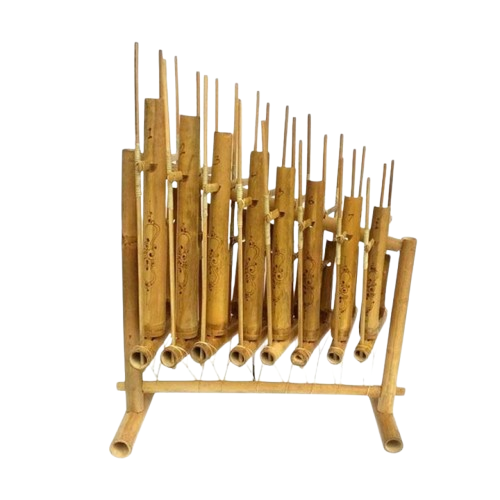
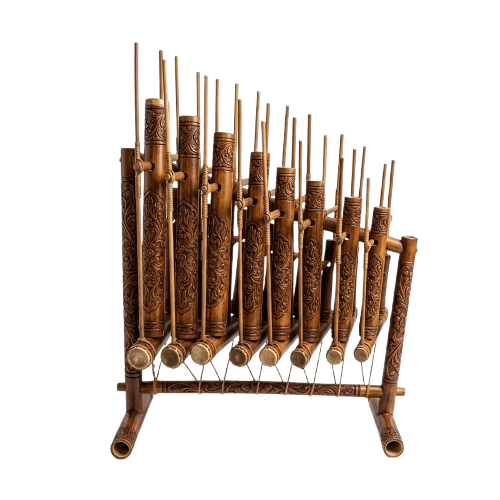
Add files via upload

Changed region(s): [[0.21, 0.09, 0.84, 0.93]]

diff --git a/web-alunan-nusantara/index.html b/web-alunan-nusantara/index.html
@@ -7,7 +7,7 @@
     const SUPABASE_URL = "https://paowtmytttinwndebftm.supabase.co";
     const SUPABASE_KEY = "sb_publishable_2-SfXv7pLRiDhTOJyAzDdg_SDZnj7ji";
     var supabase = window.supabase.createClient(SUPABASE_URL, SUPABASE_KEY);
-  </script> 
+  </script>
   <meta charset="utf-8"/>
   <meta content="width=device-width, initial-scale=1.0" name="viewport"/>
   <title>Alunan Nusantara - Beranda</title>
@@ -255,7 +255,7 @@
         <div class="flex flex-col gap-8 reveal">
           <h2 class="text-3xl font-bold text-brand-dark max-w-sm">Apa saja yang bisa di temukan?</h2>
           <div class="w-full aspect-video rounded-xl overflow-hidden">
-            <img src="assets/images/peta/petaberandaa.png" alt="Peta Indonesia" class="w-full h-full object-cover"/>
+            <img src="assets/images/peta/petaberwarna.png" alt="Peta Indonesia" class="w-full h-full object-cover"/>
           </div>
         </div>
         <div class="grid grid-cols-2 gap-6 items-stretch reveal">
